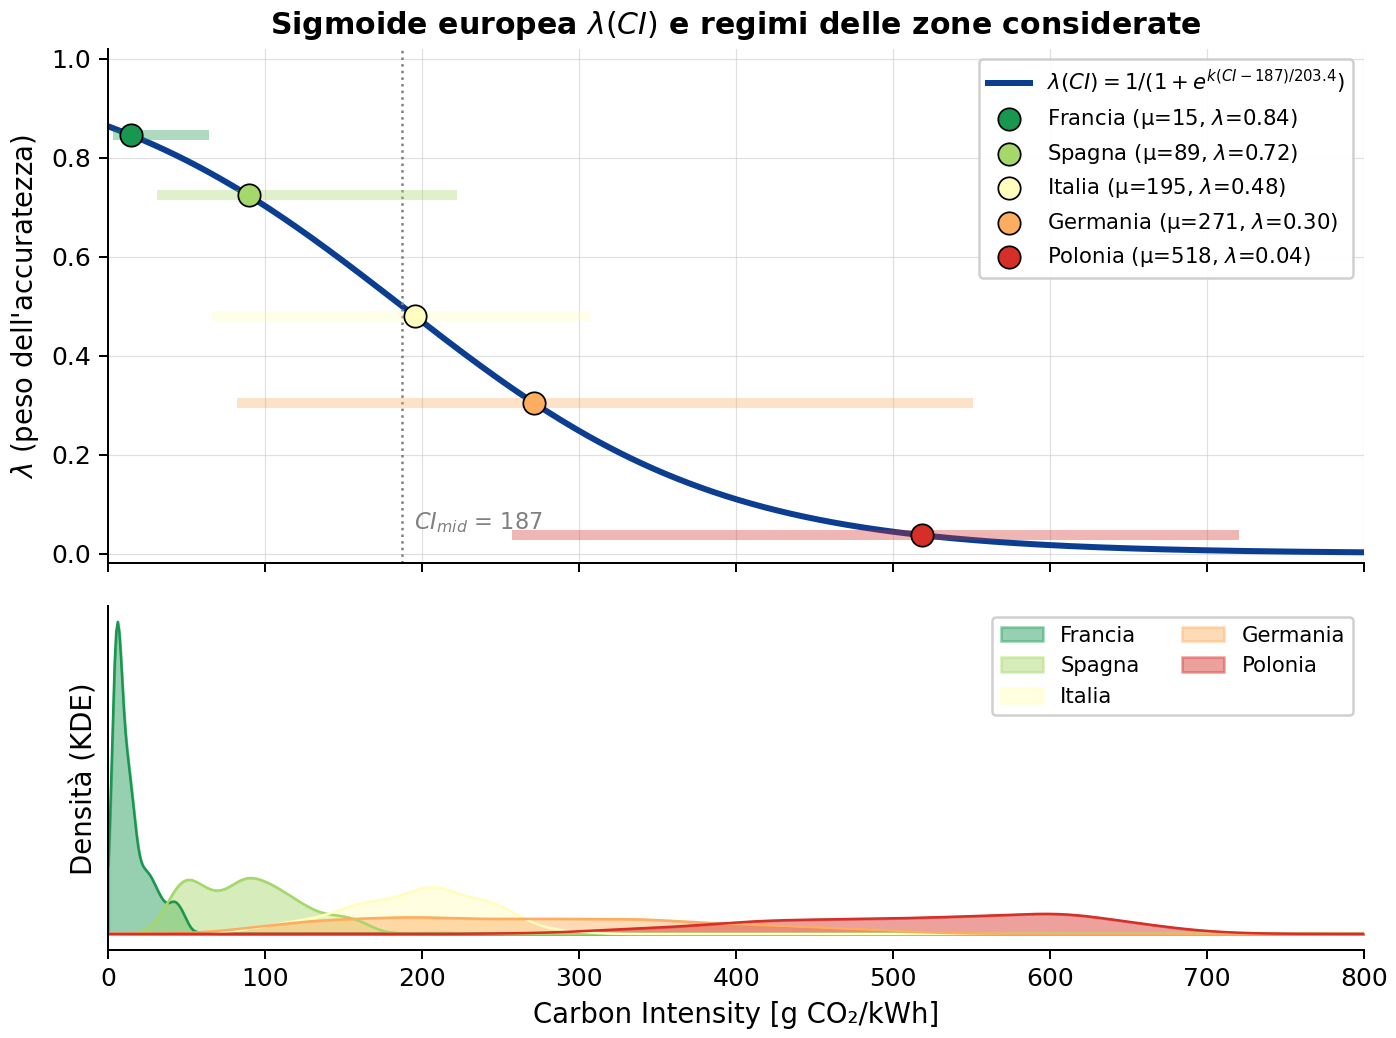
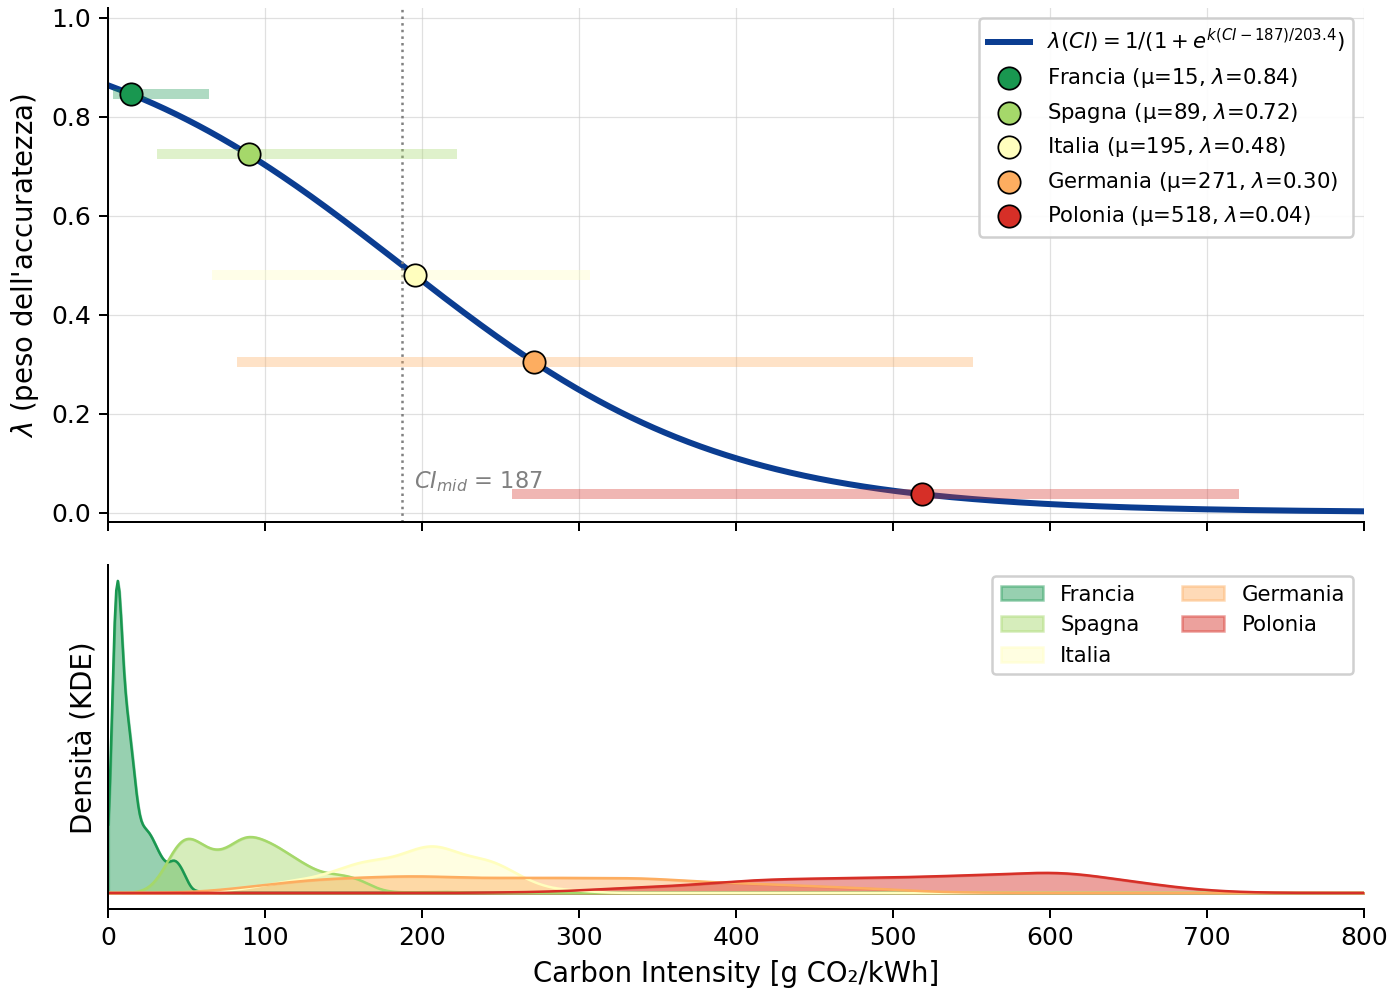
Refactor references to Carbon Response Function (CRF) in multiple chapters for consistency; enhance clarity in the description of carbon intensity and its impact on scheduling decisions.

diff --git a/src/capitoli/05-RisultatiSperimentali.tex b/src/capitoli/05-RisultatiSperimentali.tex
@@ -199,7 +199,7 @@ Il parametro $\lambda \in [0,1]$ regola il peso relativo tra qualità del
 risultato e risparmio energetico: valori elevati di $\lambda$ privilegiano
 la qualità, valori ridotti favoriscono l'efficienza energetica. Il valore
 di $\lambda$ è derivato dalla carbon intensity (CI) della zona di esecuzione
-tramite una funzione sigmoidale, garantendo che la selezione della variante
+tramite la Carbon Response Function (CRF), garantendo che la selezione della variante
 sia contestuale all'impatto carbonico dell'energia disponibile.
 
 % -----------------------------------------------------------
@@ -218,7 +218,7 @@ dalle serie storiche orarie di ElectricityMaps.
 Questo approccio isola il comportamento decisionale dello scheduler da
 eventuali variazioni del carico e consente di confrontare due diverse
 calibrazioni del segnale carbon-aware. L'Esperimento~1 mantiene fissa la
-funzione sigmoide per tutte le zone: le tracce di CI restano diverse, ma
+CRF per tutte le zone: le tracce di CI restano diverse, ma
 vengono trasformate in $\lambda$ tramite la stessa mappa decisionale.
 L'Esperimento~2 utilizza invece una calibrazione locale, più aderente a un
 deployment reale, in cui la CI corrente viene interpretata rispetto alla
@@ -273,8 +273,8 @@ Figura~\ref{fig:ci-distribution-zone} ne mostra la distribuzione per zona.
 \subsection{Obiettivo}
 \label{subsec:esperimento1-obiettivo}
 
-Il primo esperimento considera una politica carbon-aware in cui la funzione
-sigmoide è fissata una sola volta a livello europeo. Le zone mantengono le
+Il primo esperimento considera una politica carbon-aware in cui la CRF
+è fissata una sola volta a livello europeo. Le zone mantengono le
 proprie tracce di carbon intensity, che possono avere valori e distribuzioni
 molto diversi; ciò che resta invariato è la funzione che converte ciascun
 valore di CI nel parametro $\lambda$. L'esperimento serve quindi a osservare
@@ -284,25 +284,25 @@ vengono interpretati tramite la stessa mappa decisionale.
 \subsection{Configurazione}
 \label{subsec:esperimento1-configurazione}
 
-La normalizzazione del segnale di carbon intensity utilizza una sigmoide
+La normalizzazione del segnale di carbon intensity utilizza una CRF
 calibrata su un riferimento europeo comune, con punto medio fissato al
 valore medio europeo~\cite{eea-electricity-ghg-intensity}. In questo modo
 la medesima funzione $\lambda(\mathrm{CI})$ viene applicata a tutte le
 zone, pur in presenza di tracce di CI differenti. Le differenze osservate
 dipendono quindi dai valori di CI propri di ciascuna zona e dalla loro
-posizione rispetto alla sigmoide comune. La
-Figura~\ref{fig:sigmoid-overlay} mostra la sigmoide europea e la
+posizione rispetto alla CRF comune. La
+Figura~\ref{fig:crf-overlay} mostra la CRF europea e la
 collocazione delle zone lungo l'asse decisionale.
 
 \begin{figure}[H]
     \centering
     \includegraphics[width=0.95\textwidth]{figures/validation/06_sigmoid_overlay.png}
-    \caption{Sigmoide europea utilizzata per trasformare la CI nel
+    \caption{Carbon Response Function europea utilizzata per trasformare la CI nel
              parametro $\lambda$ e collocazione delle zone considerate.
              La funzione mappa le CI più basse verso $\lambda \approx 1$
              (preferenza per la qualità) e le CI più alte verso
              $\lambda \approx 0$ (preferenza per il risparmio energetico).}
-    \label{fig:sigmoid-overlay}
+    \label{fig:crf-overlay}
 \end{figure}
 
 Per ogni coppia funzione-zona viene eseguita la stessa traccia nei tre
@@ -349,7 +349,7 @@ calibrazione europea nelle cinque zone, ordinate per CI media crescente.
 \end{figure}
 
 \paragraph{Distribuzione delle varianti.}
-Le distribuzioni mostrano l'effetto atteso di una sigmoide europea
+Le distribuzioni mostrano l'effetto atteso di una CRF europea
 comune. In Francia, dove la CI è molto inferiore al riferimento europeo,
 il valore di $\lambda$ resta nella regione che privilegia la qualità: le
 varianti a massima accuratezza sono dominanti. Questo comportamento è
@@ -371,7 +371,7 @@ varianti intermedie o più accurate.
 
 Le zone intermedie mostrano il passaggio tra questi due regimi. Spagna e
 Italia restano vicine al lato qualitativo quando la loro CI è ancora
-relativamente bassa rispetto alla sigmoide europea, ma iniziano a
+relativamente bassa rispetto alla CRF europea, ma iniziano a
 distribuire le scelte su varianti più leggere quando la traccia attraversa
 valori più alti. PiLeibniz rende bene questo comportamento: già in Spagna
 non compare una sola variante dominante, ma più approssimazioni con numero
@@ -612,7 +612,7 @@ coerente con la CI osservata.
 
 Il secondo esperimento valuta lo stesso scheduler in una configurazione
 locale. A differenza dell'Esperimento~1, in cui tutte le zone condividono
-un riferimento europeo, qui la sigmoide è calibrata sulla distribuzione
+un riferimento europeo, qui la CRF è calibrata sulla distribuzione
 storica di ciascuna zona. Il valore di $\lambda$ non dipende quindi
 soltanto dalla CI assoluta, ma anche dalla sua posizione rispetto al regime
 abituale della rete considerata. Questa configurazione rappresenta il caso
@@ -624,13 +624,13 @@ carbon-aware rispetto al contesto elettrico in cui opera.
 
 La struttura sperimentale è la stessa dell'Esperimento~1: per ogni zona
 viene rieseguita la stessa traccia nei tre regimi. Cambia la
-normalizzazione del segnale ambientale: per ogni zona $z$, la sigmoide
+normalizzazione del segnale ambientale: per ogni zona $z$, la CRF
 utilizza la media storica locale $\mu_z$ e i percentili locali $P_5$ e
 $P_{95}$ stimati dalle serie ElectricityMaps~\cite{electricitymaps2024}.
 La media locale definisce il punto centrale della transizione, mentre
 $P_5$ e $P_{95}$ identificano le regioni in cui la CI è rispettivamente
 molto bassa o molto alta per quella zona, cioè dove $\lambda$ tende a
-$1$ o a $0$. La Figura~\ref{fig:exp2-sigmoidi-locali} mostra due esempi
+$1$ o a $0$. La Figura~\ref{fig:exp2-crf-locali} mostra due esempi
 rappresentativi di questa calibrazione.
 Rispetto all'Esperimento~1, la stessa CI assoluta può generare valori di $\lambda$ differenti in zone
 diverse, poiché rappresenta una condizione ordinaria in una rete e
@@ -704,7 +704,7 @@ suddivisione usata per individuare le fasce rappresentative.
         \includegraphics[width=\textwidth]{figures/lambda_curve_PL.png}
         \caption{Polonia (PL)}
     \end{subfigure}
-    \caption{Esempi di sigmoidi locali utilizzate nell'Esperimento~2 per
+    \caption{Esempi di Carbon Response Function locali utilizzate nell'Esperimento~2 per
              trasformare la carbon intensity oraria nel parametro
              $\lambda$. Francia e Polonia rappresentano due estremi della
              distribuzione osservata: la stessa funzione decisionale viene
@@ -713,11 +713,11 @@ suddivisione usata per individuare le fasce rappresentative.
              più alti rendono più brusco il passaggio da $\lambda \approx 1$
              a $\lambda \approx 0$, mentre valori più bassi producono una
              variazione più graduale.}
-    \label{fig:exp2-sigmoidi-locali}
+    \label{fig:exp2-crf-locali}
 \end{figure}
 
-Nei due esempi della Figura~\ref{fig:exp2-sigmoidi-locali}, il punto medio
-della sigmoide coincide con la media storica locale: per la Francia la
+Nei due esempi della Figura~\ref{fig:exp2-crf-locali}, il punto medio
+della CRF coincide con la media storica locale: per la Francia la
 transizione avviene a valori assoluti di CI molto bassi, mentre per la
 Polonia la stessa logica decisionale è centrata su valori molto più elevati.
 Questa differenza evidenzia il ruolo della calibrazione locale: $\lambda$
@@ -779,7 +779,7 @@ ottenute con calibrazione locale della CI.
 
 Un primo segnale del corretto funzionamento dello scheduler è che la
 calibrazione locale evita il collasso sistematico su uno dei due estremi
-della frontiera di Pareto. La sigmoide produce valori di $\lambda$ molto
+della frontiera di Pareto. La CRF produce valori di $\lambda$ molto
 alti o molto bassi solo quando il timestamp è anomalo rispetto alla storia
 della zona; la maggior parte dei timestamp ordinari ricade in una regione
 intermedia, e lo scheduler converge su varianti di compromesso. Le scelte
@@ -1025,7 +1025,7 @@ stimate di CO\textsubscript{2}.
 
 L'Esperimento~2 mostra come le decisioni cambiano quando la CI viene
 interpretata rispetto al contesto locale anziché rispetto a una scala
-europea uniforme. La sigmoide non classifica una zona come
+europea uniforme. La CRF non classifica una zona come
 ``pulita'' o ``carbon-intensive'' in senso assoluto, ma valuta ogni
 timestamp rispetto alla storia della rete locale. Per questo motivo anche
 zone con CI media molto diversa possono produrre decisioni intermedie:

diff --git a/src/capitoli/04-SchedulerCarbonAware.tex b/src/capitoli/04-SchedulerCarbonAware.tex
@@ -16,7 +16,7 @@ segnale ambientale corrente.}
 
 % ============================================================
 \section{La carbon intensity come segnale decisionale}
-\label{sec:sigmoide}
+\label{sec:crf}
 % ============================================================
 
 Come già detto precedentemente, la carbon intensity (CI) esprime la quantità di
@@ -56,20 +56,20 @@ della zona. La semantica adottata è la seguente:
 \end{itemize}
 
 % ------------------------------------------------------------
-\subsection{La funzione sigmoide calibrata per zona}
-\label{sec:sigmoide:calibrazione}
+\subsection{La Carbon Response Function}
+\label{sec:crf:calibrazione}
 % ------------------------------------------------------------
 
 Per tradurre la CI corrente in un valore di $\lambda$ relativo al
-contesto storico della zona, si adotta una funzione sigmoide logistica
-nella forma:
+contesto storico della zona, si adotta una funzione logistica monotona
+decrescente, denominata \emph{Carbon Response Function} (CRF), nella forma:
 %
 \begin{equation}
     \lambda(\mathrm{CI}) \;=\;
         \frac{1}
              {1 + \exp\!\left(k \cdot
                  \dfrac{\mathrm{CI} - \mu_z}{s_z}\right)}
-    \label{eq:sigmoide}
+    \label{eq:crf}
 \end{equation}
 %
 dove $\mu_z$ è la media storica della CI per la zona geografica~$z$
@@ -90,7 +90,7 @@ desiderabili nel contesto dello scheduling:
 
     \item \textbf{Sensibilità contestuale}: i parametri $\mu_z$ e $s_z$
     sono calibrati a partire dalla distribuzione storica della CI nella
-    zona $z$, permettendo alla sigmoide di adattarsi al contesto locale.
+    zona $z$, permettendo alla CRF di adattarsi al contesto locale.
     In questo modo, il valore di $\lambda$ esprime una misura relativa
     rispetto alla norma locale, rendendo confrontabili le decisioni di
     scheduling tra aree geografiche diverse, anche quando i livelli
@@ -160,7 +160,7 @@ dati storici di carbon intensity per ciascuna zona, recuperati da \cite{electric
 Al momento dell'invocazione, lo scheduler recupera la CI
 corrente tramite l'API di ElectricityMaps~\cite{electricitymaps2024}
 , legge i parametri della zona, e calcola $\lambda$ secondo
-l'Equazione~\eqref{eq:sigmoide}, come descritto nell'algoritmo \autoref{alg:lambda}. In caso di indisponibilità dell'API,
+l'Equazione~\eqref{eq:crf}, come descritto nell'algoritmo \autoref{alg:lambda}. In caso di indisponibilità dell'API,
 il sistema degrada a $\lambda = 0{,}5$ (bilanciamento neutro tra
 accuratezza ed efficienza energetica).
 
@@ -443,7 +443,7 @@ unico meccanismo decisionale le tre famiglie di soluzioni identificate nel
 Capitolo~\ref{cap:Stato dell'arte}: la selezione tra varianti con diversi
 profili energia-accuratezza, la sensibilità al contesto carbonico della
 rete elettrica e l'adattività delle stime energetiche alle condizioni
-operative correnti. La sigmoide calibrata per zona traduce la carbon
+operative correnti. La Carbon Response Function calibrata per zona traduce la carbon
 intensity in un peso $\lambda$ contestualizzato rispetto alla
 distribuzione storica locale; la frontiera di Pareto restringe lo
 spazio decisionale alle sole varianti non dominate; la scalarizzazione

diff --git a/abstract/Abstract.tex b/abstract/Abstract.tex
@@ -37,12 +37,14 @@ eseguite e aggiorna i profili energetici tramite media mobile esponenziale.
 In questo modo le stime usate dallo scheduler non restano puramente statiche,
 ma si adattano progressivamente al comportamento osservato sul nodo corrente.
 
-La carbon intensity corrente ottenuta tramite chiamate API ad
+La carbon intensity corrente, ottenuta tramite chiamate API ad
 ElectricityMaps, viene trasformata in un parametro $\lambda \in [0,1]$ tramite
-una funzione sigmoide calibrata sulla distribuzione storica della zona
-geografica. Questa calibrazione locale consente di interpretare la CI come
-valore relativo al contesto della rete elettrica considerata, e non come
-soglia assoluta valida ovunque. Il parametro $\lambda$ regola una
+la \emph{Carbon Response Function} (CRF): una funzione logistica monotona
+decrescente il cui punto medio e la cui scala di transizione sono calibrati
+sulla media e sui percentili storici della zona geografica. La CRF traduce la
+CI corrente in un peso decisionale relativo al contesto locale, consentendo di
+interpretare la CI non come soglia assoluta valida ovunque, ma come posizione
+rispetto al comportamento tipico della rete elettrica considerata. Il parametro $\lambda$ regola una
 scalarizzazione della frontiera di Pareto energia--qualità, costruita sulle
 sole varianti non dominate. Le stime energetiche includono inoltre un termine
 di esplorazione ispirato al principio Lower Confidence Bound, utile a
@@ -60,7 +62,7 @@ minima energia. I risultati mostrano che lo scheduler si posiziona in modo
 coerente tra questi due estremi, adattando la scelta al segnale carbonico
 locale.
 
-Rispetto a $\Lambda_1$, con calibrazione locale della sigmoide, la politica
+Rispetto a $\Lambda_1$, con CRF calibrata localmente per zona, la politica
 proposta ottiene risparmi energetici compresi tra il 62\% e il 92\% e una
 riduzione stimata delle emissioni operative di CO\textsubscript{2} fino al
 94{,}82\%. Il costo qualitativo resta contenuto nelle funzioni numeriche,

diff --git a/src/capitoli/06-Conclusioni.tex b/src/capitoli/06-Conclusioni.tex
@@ -48,7 +48,7 @@ prematuramente alternative potenzialmente efficienti.
 
 Il quarto contributo è lo scheduler carbon-aware. A partire dalla carbon
 intensity della zona di esecuzione, il sistema calcola un parametro
-$\lambda$ tramite una funzione sigmoide calibrata sulla distribuzione
+$\lambda$ tramite la Carbon Response Function (CRF) calibrata sulla distribuzione
 storica locale. Tale parametro regola una scalarizzazione lineare della
 frontiera di Pareto energia--qualità: valori elevati di $\lambda$
 privilegiano varianti più accurate, mentre valori ridotti orientano la
@@ -72,7 +72,7 @@ carbonico: nelle zone a bassa carbon intensity tende a selezionare varianti
 più accurate, mentre nelle zone più carbon-intensive privilegia varianti
 più efficienti.
 
-L'Esperimento~2 ha introdotto una calibrazione locale della sigmoide,
+L'Esperimento~2 ha introdotto una calibrazione locale della CRF,
 interpretando ogni valore di carbon intensity rispetto alla storia della
 zona. Questa scelta produce un comportamento più equilibrato: anche zone con
 CI media elevata possono generare decisioni intermedie quando il valore
@@ -216,7 +216,7 @@ continuità.
 
 
 \paragraph{Calibrazione adattiva e predittiva della carbon intensity.}
-La sigmoide è attualmente calibrata su dati storici. Una calibrazione
+La CRF è attualmente calibrata su dati storici. Una calibrazione
 periodica basata su finestre mobili permetterebbe di adattarsi a variazioni
 strutturali del mix energetico locale. Un passo ulteriore consiste
 nell'integrare previsioni di carbon intensity, così da pianificare le scelte

diff --git a/src/capitoli/01-Introduzione.tex b/src/capitoli/01-Introduzione.tex
@@ -258,7 +258,7 @@ Il capitolo seguente, \textbf{Stato dell'arte}, analizzerà le principali soluzi
 
 Nel capitolo \textbf{Architettura del Sistema} verrà descritto il sistema realizzato: il modello di funzione logica con varianti energetiche, l'integrazione di Kepler per il monitoraggio dei consumi a livello di container, il meccanismo di aggiornamento adattivo dei profili energetici tramite media mobile esponenziale e il meccanismo di esplorazione LCB per il raffinamento delle stime nelle fasi iniziali.
 
-Nel capitolo \textbf{Scheduler Carbon-Aware} sarà presentata la logica decisionale del sistema: la calibrazione della sigmoide per zona geografica, la costruzione della frontiera di Pareto nello spazio energia-accuratezza e il criterio di selezione della variante in funzione della carbon intensity corrente.
+Nel capitolo \textbf{Scheduler Carbon-Aware} sarà presentata la logica decisionale del sistema: la Carbon Response Function (CRF) calibrata per zona geografica, la costruzione della frontiera di Pareto nello spazio energia-accuratezza e il criterio di selezione della variante in funzione della carbon intensity corrente.
 
 Nel capitolo \textbf{Risultati Sperimentali} saranno riportati e discussi i risultati della valutazione sperimentale, quantificando il trade-off tra consumo energetico e accuratezza del risultato al variare della carbon intensity, della zona geografica e delle condizioni iniziali di stima.
 
